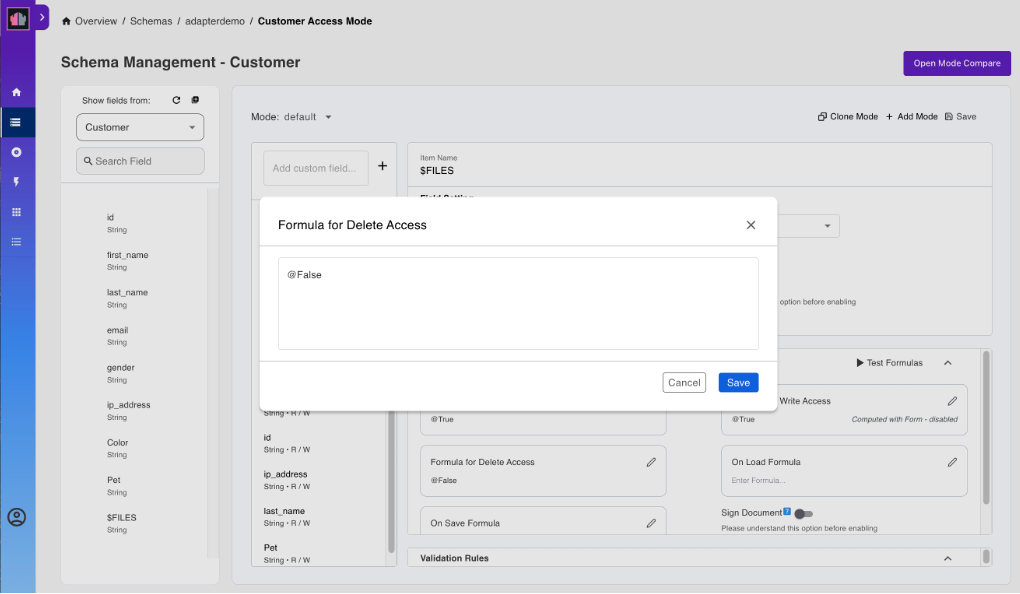
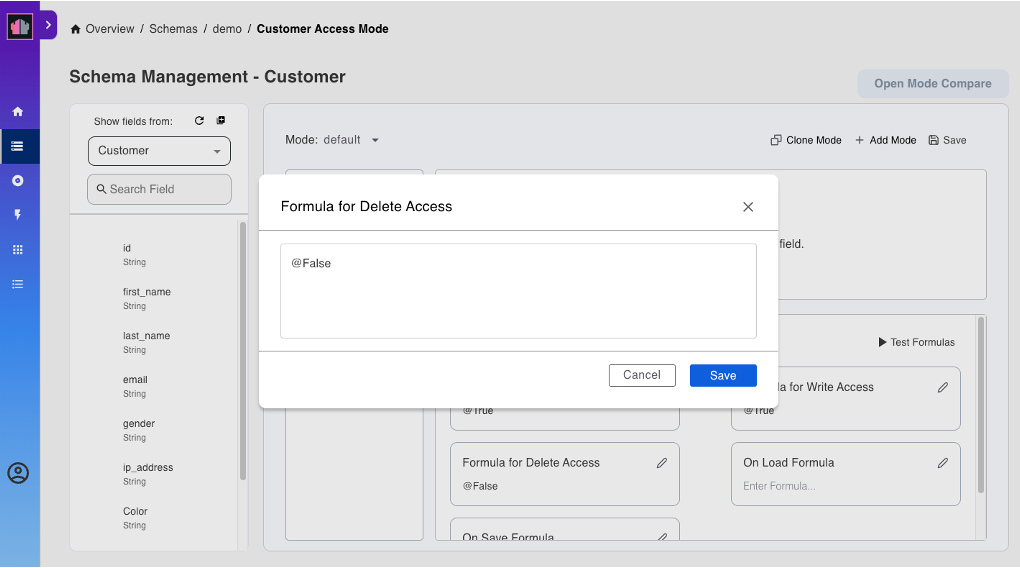
Update based on feedback

diff --git a/docs/whatsnew/v1.1.3.md b/docs/whatsnew/v1.1.3.md
@@ -27,7 +27,6 @@ Release date: April 21, 2025
 
 ## Improvements
 
-- Added a text on the **Formula for Write Access** on **Mode Settings** in the **Admin UI** to indicate whether *Computed with Form* method is enabled or disabled.
 - Cache ACL Lookups for faster operations.
 - Removed dependency on Guava library.
 - Enhanced `POST v1/run/formula` to support `forms` array and form alias.

diff --git a/docs/whatsnew/index.md b/docs/whatsnew/index.md
@@ -14,7 +14,7 @@ The What's new contains information about the latest features, improvements, fix
     Release date: April 21, 2025
     
     - **4** New features
-    - **6** Improvements
+    - **5** Improvements
     - **4** Resolved issues
     - **1** Breaking change
 
